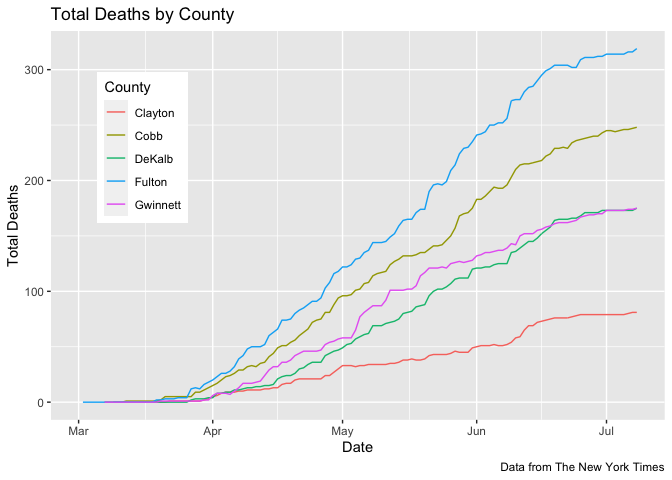
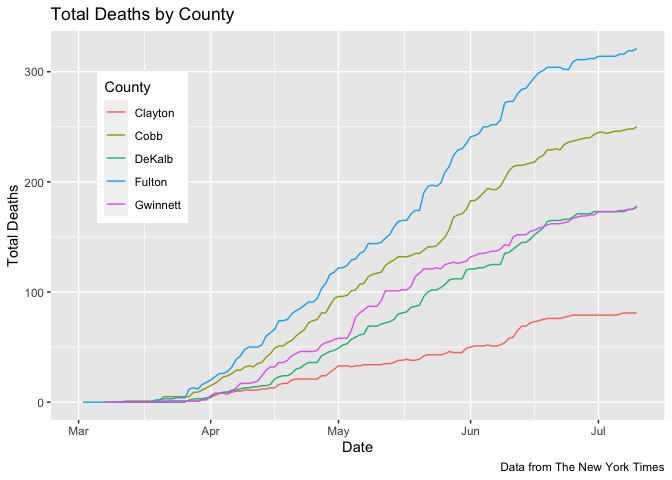
Updated data

diff --git a/README.md b/README.md
@@ -6,4 +6,4 @@ The first product of this project is an [R Markdown document](https://github.com
 
 The second product of this project is a [Shiny web app](https://jamesphare.shinyapps.io/COVID_by_county/), which visualizes new case and death data for the entire United States, with a focus on county-level data in the context of state and national data.
 
-The third product of this project was [an exploration](https://github.com/jamesphare/metro_atlanta_covid/blob/master/DeKalb_by_Zip.md) of the relation between median income by ZIP Code and cases of COVID-19 in DeKalb County, Georgia. My initial analysis seemed to indicate a strong relationship, but when I adjusted to account for ZIP Codes that did not fall entirely within the county limits, this apparent relationship became much weaker (although still significant).
+The third product of this project is [an exploration](https://jamesphare.org/2020/07/covid-19-in-dekalb/) of the DeKalb County Board of Health data on COVID-19. I made some mistakes and didn't come up with any stunning conclusions, but I learned a lot along the way. Methodological specifics and code are available [here](https://github.com/jamesphare/metro_atlanta_covid/blob/master/DeKalb_by_Zip.md).

diff --git a/Metro_Atlanta_COVID.md b/Metro_Atlanta_COVID.md
@@ -14,7 +14,7 @@ It’s hard to know how to interpret these numbers since there are major
 known unknowns. Neither confirmed cases nor deaths can be said to be
 reliable counts of the true numbers.
 
-Data current as of July 09, 2020.
+Data current as of July 11, 2020.
 
 # Metro Atlanta
 
